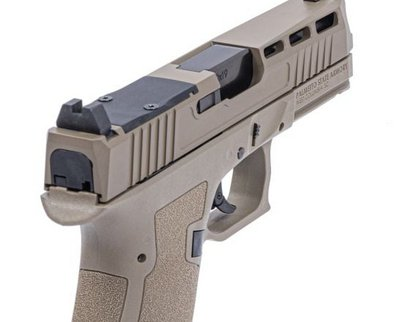
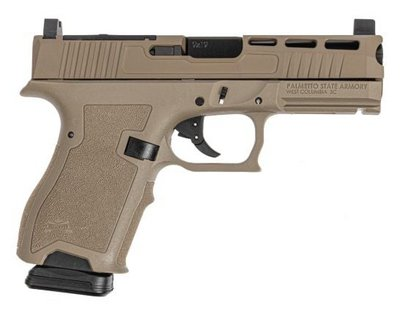
Update scraped product data

diff --git a/client/daggers-data.ts b/client/daggers-data.ts
@@ -1064,7 +1064,7 @@ const data: DaggersData = {
 			"psa_product_name": "PSA Dagger Compact 9mm Pistol With SW4 Extreme Carry Cut RMR Slide & Non Threaded Barrel, Flat Dark Earth",
 			"psa_url": "https://palmettostatearmory.com/psa-dagger-compact-9mm-pistol-with-sw4-extreme-carry-cut-rmr-slide-non-threaded-barrel-flat-dark-earth.html",
 			"price": 319.99,
-			"original_product_image_url": "https://palmettostatearmory.com/media/catalog/product/cache/7af8331bf1196ca28793bd1e8f6ecc7b/d/g/dg01-51655201978_123025_3.jpg",
+			"original_product_image_url": "https://palmettostatearmory.com/media/catalog/product/cache/7af8331bf1196ca28793bd1e8f6ecc7b/d/g/dg01-51655201978_123025_1.jpg",
 			"image_file_name": "psa-dagger-compact-9mm-pistol-with-sw4-extreme-carry-cut-rmr-slide-non-threaded-barrel-flat-dark-earth.jpg",
 			"size": "compact",
 			"width": 1.28,